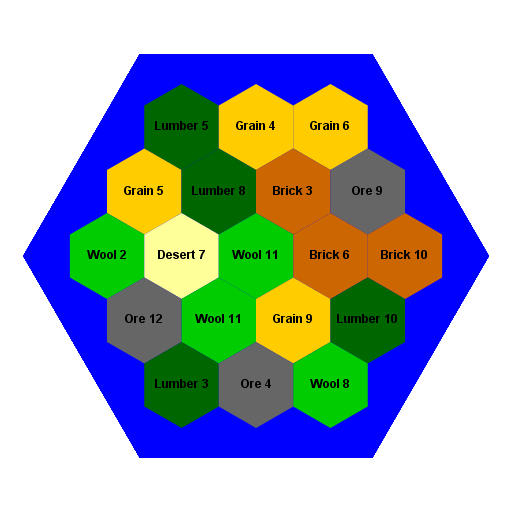
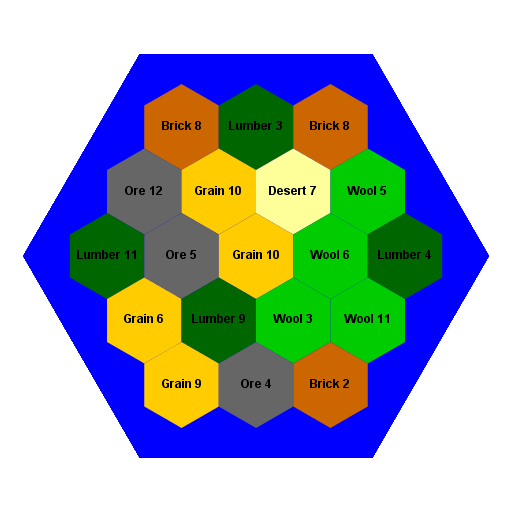
added and tested new dynamic generation of hex graph, using constructor Board(int radius), where a normal board has radius 3

diff --git a/src/Board.java b/src/Board.java
@@ -6,27 +6,116 @@ import java.awt.Font;
 
 public class Board {
 
+    public static final int DEFAULT_RADIUS = 3;
+
+    private int radius;
     private Intersection[] intersections;
     private Road[][] iGraph; // existence of edge denoted by Road object; 'null' otherwise
+    private ArrayList<ArrayList<Integer>> hRings;
     private Hex[] hexes;
     private boolean[][] hGraph; // existence of edge denoted by 'true'; 'false' otherwise
     private int robberIndex; // location of the robber in hexes[]
     
     /* Constructors */
     
-    // build a new random board
+    // build a new random board of default size
     public Board() {
+        radius = DEFAULT_RADIUS;
         initHGraph();
+        initHexes();
         initIGraph();
+    }
+    public Board(int radius) {
+        this.radius = radius;
+        initHRings();
+        initHGraphNew();
+        initHexes();
+        initIGraph(); // iGraph numbering is rendered nonsensical but still "works" (todo: fix)
     }
     // build a board from a saved state
     public Board(String state) {
         // TODO
     }
     
-    private void initHGraph() {
-        int[][] g = Hex.GRAPH;
-        int n = g.length;
+    private void initHRings() {
+        hRings = new ArrayList<ArrayList<Integer>>(radius);
+        int curIndex = 0;
+        for (int i = 0; i < radius; i++) {
+            int circleSize;
+            if (i == 0) circleSize = 1;
+            else circleSize = i * HexShape.NUM_SIDES;
+            hRings.add(new ArrayList<Integer>(circleSize));
+            for (int j = 0; j < circleSize; j++) {
+                hRings.get(i).add(curIndex);
+                curIndex += 1;
+            }
+        }
+    }
+    private void initHGraphNew() {
+        ArrayList<Integer> lastRing = hRings.get(radius - 1);
+        int lastRingSize = lastRing.size();
+        int n = lastRing.get(lastRingSize - 1) + 1;
+        hGraph = new boolean[n][n];
+        for (int i = 0; i < radius; i++) {
+            ArrayList<Integer> curRing = hRings.get(i);
+            int curRingSize = curRing.size();
+            for (int j = 0; j < curRingSize; j++) {
+                int curCurHex = curRing.get(j);
+                ArrayList<Integer> nextRing;
+                int nextRingSize;
+                // determine if current ring is last ring
+                if ((i + 1) < radius) {
+                    nextRing = hRings.get(i + 1);
+                    nextRingSize = nextRing.size();
+                }
+                else {
+                    nextRing = null;
+                    nextRingSize = 0;
+                }
+                // first ring is a special case
+                if (curRingSize == 1) {
+                    for (int k = 0; k < nextRingSize; k++) {
+                        hGraph[curCurHex][nextRing.get(k)] = true;
+                        hGraph[nextRing.get(k)][curCurHex] = hGraph[curCurHex][nextRing.get(k)];
+                    }
+                    break;
+                }
+                // next in same ring
+                int curNextHex = curRing.get((j + 1) % curRingSize);
+                hGraph[curCurHex][curNextHex] = true;
+                hGraph[curNextHex][curCurHex] = hGraph[curCurHex][curNextHex];
+                // for the last ring there is no next ring
+                if (nextRingSize == 0) continue;
+                // deal with links to next ring
+                boolean isCorner = ((j % i) == 0);
+                int sextant = j / i;
+                if (isCorner) {
+                    // prev in next ring
+                    int nextPrevHex = nextRing.get((j - 1 + sextant + nextRingSize) % nextRingSize);
+                    hGraph[curCurHex][nextPrevHex] = true;
+                    hGraph[nextPrevHex][curCurHex] = hGraph[curCurHex][nextPrevHex];
+                    // same in next ring
+                    int nextCurHex = nextRing.get(j + sextant);
+                    hGraph[curCurHex][nextCurHex] = true;
+                    hGraph[nextCurHex][curCurHex] = hGraph[curCurHex][nextCurHex];
+                    // next in next ring
+                    int nextNextHex = nextRing.get(j + 1 + sextant);
+                    hGraph[curCurHex][nextNextHex] = true;
+                    hGraph[nextNextHex][curCurHex] = hGraph[curCurHex][nextNextHex];
+                }
+                else {
+                    // prev in next ring
+                    int nextPrevHex = nextRing.get(j + sextant);
+                    hGraph[curCurHex][nextPrevHex] = true;
+                    hGraph[nextPrevHex][curCurHex] = hGraph[curCurHex][nextPrevHex];
+                    // next in next ring
+                    int nextNextHex = nextRing.get(j + 1 + sextant);
+                    hGraph[curCurHex][nextNextHex] = true;
+                    hGraph[nextNextHex][curCurHex] = hGraph[curCurHex][nextNextHex];
+                }
+            }
+        }
+        
         ArrayList<Integer> shuffledLand = new ArrayList<Integer>(Arrays.asList(Resource.TILES));
         Collections.shuffle(shuffledLand);
         robberIndex = shuffledLand.indexOf(Resource.DESERT); // robber starts in desert
@@ -37,6 +126,11 @@ public class Board {
             hexes[i] = new Hex(i, new Resource(shuffledLand.get(i)), shuffledDiceRolls.get(i));
         }
         hexes[robberIndex].placeRobber(); // actually place the robber on the desert hex
+    }
+    
+    private void initHGraph() {
+        int[][] g = Hex.GRAPH;
+        int n = g.length;
         
         hGraph = new boolean[n][n];
         for (int i = 0; i < n; i++) {
@@ -49,6 +143,19 @@ public class Board {
                 }
             }
         }
+    }
+    private void initHexes() {
+        int n = hGraph.length;
+        ArrayList<Integer> shuffledLand = new ArrayList<Integer>(Arrays.asList(Resource.TILES));
+        Collections.shuffle(shuffledLand);
+        robberIndex = shuffledLand.indexOf(Resource.DESERT); // robber starts in desert
+        ArrayList<Integer> shuffledDiceRolls = getDiceRolls(robberIndex);
+        
+        hexes = new Hex[n];
+        for (int i = 0; i < n; i++) {
+            hexes[i] = new Hex(i, new Resource(shuffledLand.get(i)), shuffledDiceRolls.get(i));
+        }
+        hexes[robberIndex].placeRobber(); // actually place the robber on the desert hex
     }
     private void initIGraph() {
         int[][] g = Intersection.GRAPH;
@@ -168,6 +275,16 @@ public class Board {
             System.out.print("\r\n");
         }
     }
+    public void printHRings() {
+        for (int i = 0; i < hRings.size(); i++) {
+            System.out.println("Circle " + i);
+            System.out.print("{ ");
+            for (int j = 0; j < hRings.get(i).size(); j++) {
+                System.out.print(hRings.get(i).get(j) + " "); 
+            }
+            System.out.print("}\n");
+        }
+    }
     public void printHexes() {
         System.out.println(hexes.length + "\r");
         for (int i = 0; i < hexes.length; i++) {
@@ -213,6 +330,7 @@ public class Board {
         b.printHexes();
         System.out.println("-----");
         */
+        
         
         for (int k = 0; k < 20; k++) {
             StdDraw.setXscale(0, 500);
@@ -278,7 +396,7 @@ public class Board {
             StdDraw.filledPolygon(bigBlue.getXCoords(), bigBlue.getYCoords());
             StdDraw.setFont(new Font("Arial", Font.BOLD, 12));
             
-            Board b = new Board();
+            Board b = new Board(3);
             Hex[] hexes = b.getHexes();
             
             for (int i = 0; i < hexes.length; i++) {
@@ -289,6 +407,7 @@ public class Board {
             }
             StdDraw.save("result" + k + ".png");
         }
+        System.exit(0);
     }
 }
 
